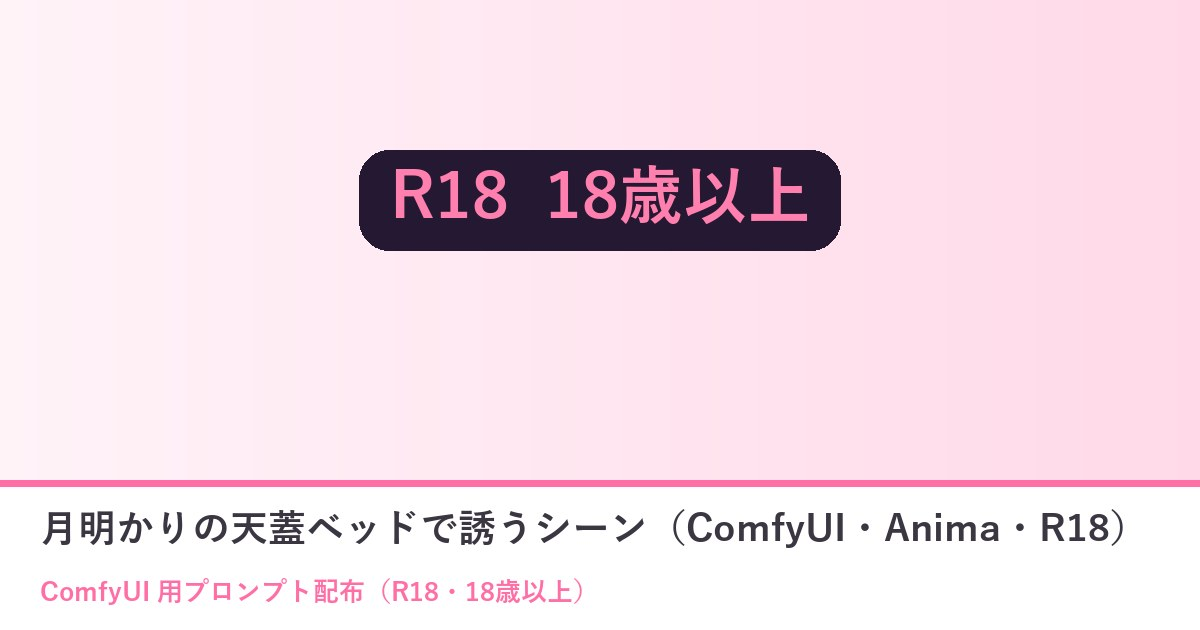
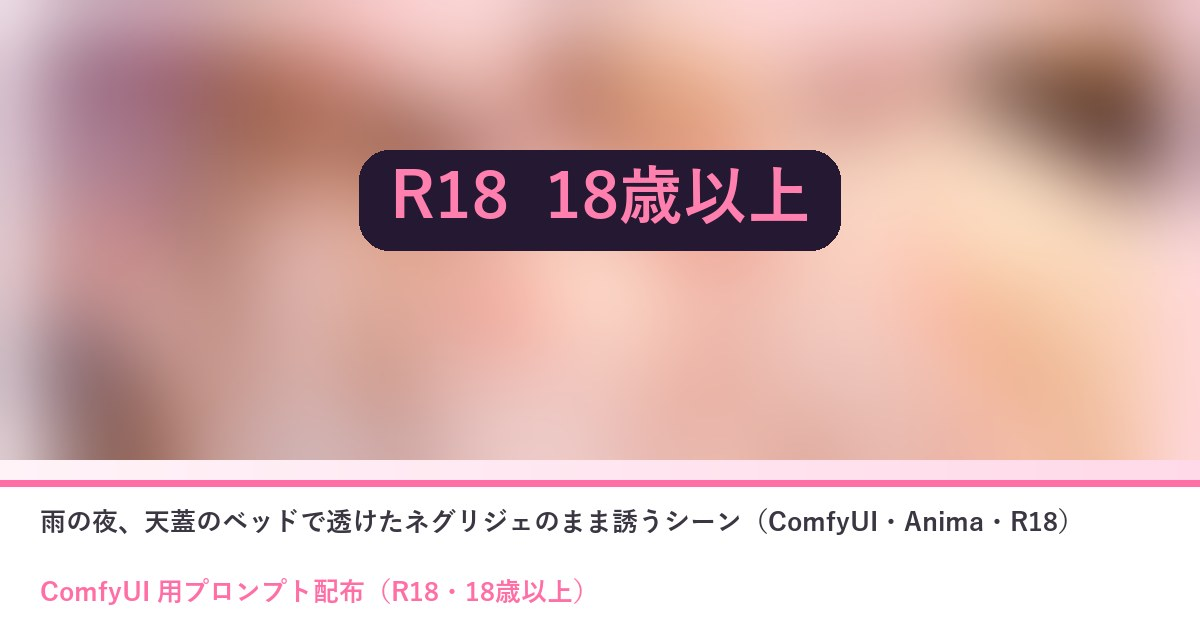
プロンプト配布 10/01 R18 を1枚・LoRA あり／なしに作り直し

diff --git a/prompts/2026-10-01-comfy-r18-ixo9srna.html b/prompts/2026-10-01-comfy-r18-ixo9srna.html
@@ -3,17 +3,17 @@
 <head>
 <meta charset="UTF-8"><meta name="robots" content="noindex, nofollow, noarchive"><meta name="referrer" content="strict-origin">
 <meta name="viewport" content="width=device-width, initial-scale=1">
-<title>月明かりの天蓋ベッドで誘うシーン（ComfyUI・Anima・R18）｜ひみつの眠り姫</title>
-<meta name="description" content="月明かりとキャンドルの灯る天蓋ベッドで、透けるネグリジェのまま、とろけた笑顔で脚をひらいて誘うシーンのプロンプトです（Level2・行為なし）。オリキャラがいなくても、そのまま貼るだけで綺麗な女の子で出ます。自分のキャラ">
-<meta property="og:title" content="月明かりの天蓋ベッドで誘うシーン（ComfyUI・Anima・R18）｜ひみつの眠り姫">
-<meta property="og:description" content="月明かりとキャンドルの灯る天蓋ベッドで、透けるネグリジェのまま、とろけた笑顔で脚をひらいて誘うシーンのプロンプトです（Level2・行為なし）。オリキャラがいなくても、そのまま貼るだけで綺麗な女の子で出ます。自分のキャラ">
+<title>雨の夜、天蓋のベッドで透けたネグリジェのまま誘うシーン（ComfyUI・Anima・R18）｜ひみつの眠り姫</title>
+<meta name="description" content="窓をたたく雨音と、ろうそくの灯り。天蓋のベッドに横たわり、透けたネグリジェをはだけたまま胸に手をあてて、こちらを見上げて誘うように微笑む……ひとりきりの甘い夜のシーンのプロンプトです（18歳以上の方だけ）。LoRA が無">
+<meta property="og:title" content="雨の夜、天蓋のベッドで透けたネグリジェのまま誘うシーン（ComfyUI・Anima・R18）｜ひみつの眠り姫">
+<meta property="og:description" content="窓をたたく雨音と、ろうそくの灯り。天蓋のベッドに横たわり、透けたネグリジェをはだけたまま胸に手をあてて、こちらを見上げて誘うように微笑む……ひとりきりの甘い夜のシーンのプロンプトです（18歳以上の方だけ）。LoRA が無">
 <meta property="og:type" content="article">
 <meta property="og:url" content="https://himitsu-nemurihime.github.io/prompts/2026-10-01-comfy-r18-ixo9srna.html">
 <meta property="og:image" content="https://himitsu-nemurihime.github.io/prompts/img/2026-10-01-comfy-r18-ixo9srna/og.jpg">
 <meta property="og:image:width" content="1200"><meta property="og:image:height" content="630">
 <meta name="twitter:card" content="summary_large_image">
-<meta name="twitter:title" content="月明かりの天蓋ベッドで誘うシーン（ComfyUI・Anima・R18）｜ひみつの眠り姫">
-<meta name="twitter:description" content="月明かりとキャンドルの灯る天蓋ベッドで、透けるネグリジェのまま、とろけた笑顔で脚をひらいて誘うシーンのプロンプトです（Level2・行為なし）。オリキャラがいなくても、そのまま貼るだけで綺麗な女の子で出ます。自分のキャラ">
+<meta name="twitter:title" content="雨の夜、天蓋のベッドで透けたネグリジェのまま誘うシーン（ComfyUI・Anima・R18）｜ひみつの眠り姫">
+<meta name="twitter:description" content="窓をたたく雨音と、ろうそくの灯り。天蓋のベッドに横たわり、透けたネグリジェをはだけたまま胸に手をあてて、こちらを見上げて誘うように微笑む……ひとりきりの甘い夜のシーンのプロンプトです（18歳以上の方だけ）。LoRA が無">
 <meta name="twitter:image" content="https://himitsu-nemurihime.github.io/prompts/img/2026-10-01-comfy-r18-ixo9srna/og.jpg">
 <meta name="theme-color" content="#FFF3F8">
 <link rel="preconnect" href="https://fonts.googleapis.com">
@@ -68,15 +68,17 @@
 @media(max-width:560px){.ps-ba{grid-template-columns:1fr}.ps-ba .arr{transform:rotate(90deg);text-align:center}.ps-vars,.ps-vars tbody,.ps-vars tr,.ps-vars th,.ps-vars td{display:block;width:auto;white-space:normal}.ps-vars tr:first-child{display:none}.ps-vars tr{border-bottom:1px solid var(--ps-line);padding:4px 0}.ps-vars th,.ps-vars td{border:0;padding:6px 12px}}
 .ps{overflow-wrap:anywhere}.ps-vars td,.ps-vars th{overflow-wrap:anywhere}.ps img{max-width:100%}
 </style>
-<!--ps-meta {"date": "2026-10-01", "title": "月明かりの天蓋ベッドで誘うシーン（ComfyUI・Anima・R18）", "kind": "comfy", "nsfw": true, "summary": "天蓋ベッドで、透けるネグリジェのまま笑顔で誘う R18 のシーン（Level2）。貼るだけで作れます。", "thumb": ""}-->
+<!--ps-meta {"date": "2026-10-01", "title": "雨の夜、天蓋のベッドで透けたネグリジェのまま誘うシーン（ComfyUI・Anima・R18）", "kind": "comfy", "nsfw": true, "summary": "雨の夜の天蓋のベッドで、透けたネグリジェのまま誘う一枚（R18）。LoRA あり／なしの2通り。", "thumb": ""}-->
 </head>
 <body>
 <div id="psgate" style="position:fixed;inset:0;z-index:50;background:rgba(36,24,50,.96);display:flex;align-items:center;justify-content:center;padding:20px"><div class="door" style="max-width:420px;background:#241832;color:#f6ecfa"><h2>ここから先は成人向けです</h2><p>18歳未満の方、苦手な方は開けずに戻ってください。</p><button class="gate-btn" id="psopen" type="button">18歳以上です</button></div></div><script>(function(){var g=document.getElementById('psgate');try{if(localStorage.getItem('hn_gate')==='1'){g.remove();return;}}catch(e){}document.getElementById('psopen').addEventListener('click',function(){try{localStorage.setItem('hn_gate','1');}catch(e){}g.remove();});})();</script><div class="sky"></div>
 <main class="wrap">
-<section class="sec"><div class="sec-head"><h2>月明かりの天蓋ベッドで誘うシーン（ComfyUI・Anima・R18）</h2><p>ひみつの眠り姫のプロンプト配布</p></div>
-<div class="ps"><p><span class="ps-badge">ComfyUI 用</span><span class="ps-badge">R18</span><span class="ps-badge">2026-10-01</span></p><p class="ps-lead">月明かりとキャンドルの灯る天蓋ベッドで、透けるネグリジェのまま、とろけた笑顔で脚をひらいて誘うシーンのプロンプトです（Level2・行為なし）。オリキャラがいなくても、そのまま貼るだけで綺麗な女の子で出ます。自分のキャラにしたいときは、1行目の見た目だけ書き換えてください。</p><nav class="ps-toc" aria-label="目次"><p>📑 目次</p><ol><li><a href="#sec1">3人のおしゃべり（夜のほう）</a></li><li><a href="#sec2">使い方（3ステップ）</a></li><li><a href="#sec3">プロンプト</a></li><li><a href="#sec4">必要なもの（ComfyUI）</a></li><li><a href="#sec5">メモ</a></li><li><a href="#sec6">配布ルール</a></li><li><a href="#sec7">バックナンバー</a></li></ol></nav><div class="ps-r18"><b>🔞 18歳未満の方は閲覧・使用できません。</b><br>非合意の表現・幼く見える人物の性的な表現には使わないでください。このページには作例の絵を置いていません（文字のプロンプトだけです）。</div><h2 id="sec1">3人のおしゃべり（夜のほう）</h2><div class="ps-chat"><div class="ic">ティ</div><div><div class="who">ティルナ</div><div class="bub">月明かりの天蓋ベッドで、ネグリジェのまま『おいで』ってしてる……！ ど、どきどきするね……！</div></div></div><div class="ps-chat r"><div class="ic">セフ</div><div><div class="who">セフィリア</div><div class="bub">透けるレースに、キャンドルの灯りと花びら……綺麗なのに、とても大胆でございますね</div></div></div><div class="ps-chat r"><div class="ic">リリ</div><div><div class="who">リリア</div><div class="bub">1行目の髪の色を変えるだけで、金髪の三つ編みにも、黒髪のショートにもなりますの。オリキャラがいなくても大丈夫ですわ</div></div></div><div class="ps-chat"><div class="ic">ティ</div><div><div class="who">ティルナ</div><div class="bub">緑の髪にピンクのメッシュ……あっ、またわたしみたいなの出てきた！</div></div></div><div class="ps-chat r"><div class="ic">リリ</div><div><div class="who">リリア</div><div class="bub">出すときはモザイクを忘れずに。夜のお楽しみは、ルールを守ってこそですわ</div></div></div><h2 id="sec2">使い方（3ステップ）</h2><ol class="ps-steps"><li>ComfyUI で Anima のモデルを読み、基本の画像生成（テキストから画像）の画面にする</li><li>下のポジティブとネガティブをワンタップでコピーして貼る（自分のキャラにするなら1行目だけ書き換える）</li><li>「推奨値」の大きさ・steps・CFG にして生成する（できれば 1.5 倍の hires fix も）</li></ol><h2 id="sec3">プロンプト</h2><div class="ps-note" style="margin-bottom:12px"><b>変えるのは1行目（色の付いた行）だけ</b><ul><li>1行目＝キャラの見た目（髪の色・髪型・目の色など）。自分のキャラの特徴に書き換えてね</li><li>オリキャラがいない人は、<b>そのまま</b>コピーして使えばOK（作例の女の子で出ます）</li><li>自分のキャラの LoRA がある人は、1行目に LoRA のトリガー語を入れてね</li><li>2行目から下（シーン）と、ネガティブプロンプトは変えずにそのまま</li><li>🚫 版権キャラの名前・版権キャラの LoRA を入れて使うのは固く禁止です（下の「配布ルール」）</li></ul></div><div class="ps-box"><button class="ps-copy" type="button" data-target="ps-prompt">📋 ワンタップでコピー</button><p style="margin:0 0 8px;font-size:.82rem;color:var(--ps-a)">ポジティブプロンプト</p><pre><mark class="ps-in" data-key="キャラの行">1girl, solo, long hair, wavy hair, silver hair, purple eyes</mark>
-masterpiece, best quality, score_7, explicit, nsfw, smile, happy, blush, looking at viewer, half-closed eyes, open mouth, heart-shaped pupils, lying, on back, on bed, spread legs, m legs, hands on own knees, pussy, pussy juice, pussy juice trail, wet, sweat, shiny skin, nipples, breasts out, see-through nightgown, white nightgown, lace-trimmed nightgown, strap slip, clothes lift, frills, ribbon, white thighhighs, from above, full body, canopy bed, sheer curtains, white sheets, rose petals, petals on bed, night, moonlight, window, candlelight, light particles, rim light, depth of field, detailed background, cinematic lighting, romantic</pre><textarea class="ps-copyarea" id="ps-prompt" readonly aria-hidden="true" tabindex="-1">1girl, solo, long hair, wavy hair, silver hair, purple eyes
-masterpiece, best quality, score_7, explicit, nsfw, smile, happy, blush, looking at viewer, half-closed eyes, open mouth, heart-shaped pupils, lying, on back, on bed, spread legs, m legs, hands on own knees, pussy, pussy juice, pussy juice trail, wet, sweat, shiny skin, nipples, breasts out, see-through nightgown, white nightgown, lace-trimmed nightgown, strap slip, clothes lift, frills, ribbon, white thighhighs, from above, full body, canopy bed, sheer curtains, white sheets, rose petals, petals on bed, night, moonlight, window, candlelight, light particles, rim light, depth of field, detailed background, cinematic lighting, romantic</textarea></div><div style="height:12px"></div><div class="ps-box"><button class="ps-copy" type="button" data-target="ps-negative">📋 ワンタップでコピー</button><p style="margin:0 0 8px;font-size:.82rem;color:var(--ps-a)">ネガティブプロンプト</p><pre>worst quality, low quality, lowres, bad anatomy, bad hands, extra fingers, missing fingers, fused fingers, blurry, jpeg artifacts, text, watermark, signature, logo, extra person, multiple girls, male, penis, sad, crying, cropped, japanese text, chinese text, korean text, kanji, hiragana, katakana, calligraphy</pre><textarea class="ps-copyarea" id="ps-negative" readonly aria-hidden="true" tabindex="-1">worst quality, low quality, lowres, bad anatomy, bad hands, extra fingers, missing fingers, fused fingers, blurry, jpeg artifacts, text, watermark, signature, logo, extra person, multiple girls, male, penis, sad, crying, cropped, japanese text, chinese text, korean text, kanji, hiragana, katakana, calligraphy</textarea></div><h2 id="sec4">必要なもの（ComfyUI）</h2><div class="ps-note">🧩 <b>カスタムノードは使っていません</b>。LoRA も要りません。ComfyUI の基本の画像生成（テキストから画像）に、ポジティブ・ネガティブを貼って、下の推奨値にするだけです。</div><table class="ps-vars" style="margin-top:12px"><tr><th>モデル</th><th>ファイル</th><th>置き場</th></tr><tr><td>Anima 系のモデル</td><td>PrismPalette_ANIMA_v1 など好きな Anima</td><td><code>models/diffusion_models</code></td></tr><tr><td>テキストエンコーダ（Anima 用）</td><td>qwen_3_06b_base.safetensors</td><td><code>models/text_encoders</code></td></tr><tr><td>VAE（Anima 用）</td><td>qwen_image_vae.safetensors</td><td><code>models/vae</code></td></tr></table><h2>推奨値</h2><table class="ps-vars"><tr><th>大きさ</th><td colspan="2">864×1536（縦長＝上から見下ろす寝姿）</td></tr><tr><th>steps</th><td colspan="2">30</td></tr><tr><th>CFG</th><td colspan="2">4.5</td></tr><tr><th>sampler</th><td colspan="2">er_sde</td></tr><tr><th>scheduler</th><td colspan="2">beta</td></tr><tr><th>hires fix（任意）</th><td colspan="2">1.5 倍に拡大して denoise 0.4・同じ steps と CFG（作例はこれ）</td></tr><tr><th>LoRA</th><td colspan="2">要りません（自分のキャラの LoRA があれば使ってOK）</td></tr></table><h2 id="sec5">メモ</h2><ul class="ps-rules"><li>1行目には見た目だけを書いてください（髪の色・長さ・髪型・髪飾り・目の色）。服・ポーズ・場所は2行目からに入っています。</li><li>手はひざに置く形にしてあるので、くずれにくくなっています。くずれたら seed を変えて何枚か焼いてください。</li><li>ネガティブの male・penis は消さないでください（ひとりのシーンです）。</li><li>SNS に出すときは、各サービスのルールに従って必要な処理（モザイクなど）をしてください。</li></ul><h2 id="sec6">配布ルール</h2><ul class="ps-rules"><li>⭕ プロンプトの改変は自由です。</li><li>⭕ 生成した画像は SNS に投稿して大丈夫です。</li><li>❌ プロンプト文そのものの転載・再配布・販売はしないでください。</li><li>❌ 自作のプロンプトだと名乗ることはやめてください。</li><li>❌ このページの作例画像の無断転載はしないでください。</li><li class="ps-rights">🚫 <b>アニメ・漫画・ゲームなどの版権キャラクター（著作権・商標のあるキャラ）、他の人のキャラクターやイラスト、実在の人物の写真を添付画像にして使うことは固く禁止します。</b>版権キャラの名前や、版権キャラの LoRA を入れて使うことも禁止です。</li><li>✅ 添付してよいのは、<b>自分で作ったキャラクター・自分が権利を持つ画像</b>（または権利者から使ってよいと言われた画像）だけです。</li><li>⚠ 生成した画像の使い方（投稿・公開など）は、使った人の責任でお願いします。権利の問題が起きても、配布者は責任を負えません。</li><li>💌 使ったら <b>#眠り姫NSFWプロンプト</b> を付けて見せてくれたら、とても嬉しいです（任意です）。</li></ul><h2 id="sec7">バックナンバー</h2><div class="ps-note">📚 これまでの配布は <a href="index.html"><b>バックナンバー</b></a> にまとめてあります（作例の絵と内容が一覧で見られます）。お友だちに教えるときは、バックナンバーのページの URL を送ればOKです。</div></div>
+<section class="sec"><div class="sec-head"><h2>雨の夜、天蓋のベッドで透けたネグリジェのまま誘うシーン（ComfyUI・Anima・R18）</h2><p>ひみつの眠り姫のプロンプト配布</p></div>
+<div class="ps"><p><span class="ps-badge">ComfyUI 用</span><span class="ps-badge">R18</span><span class="ps-badge">2026-10-01</span></p><p class="ps-lead">窓をたたく雨音と、ろうそくの灯り。天蓋のベッドに横たわり、透けたネグリジェをはだけたまま胸に手をあてて、こちらを見上げて誘うように微笑む……ひとりきりの甘い夜のシーンのプロンプトです（18歳以上の方だけ）。LoRA が無くても、A をそのまま貼るだけで綺麗な女の子で出ます。自分のキャラの LoRA を持っている人は B をどうぞ。</p><nav class="ps-toc" aria-label="目次"><p>📑 目次</p><ol><li><a href="#sec1">3人のひそひそ話（R18）</a></li><li><a href="#sec2">使い方（3ステップ）</a></li><li><a href="#sec3">プロンプト</a></li><li><a href="#sec4">必要なもの（ComfyUI）</a></li><li><a href="#sec5">メモ</a></li><li><a href="#sec6">配布ルール</a></li></ol></nav><div class="ps-r18"><b>🔞 18歳未満の方は閲覧・使用できません。</b><br>非合意の表現・幼く見える人物の性的な表現には使わないでください。このページには作例の絵を置いていません（文字のプロンプトだけです）。</div><h2 id="sec1">3人のひそひそ話（R18）</h2><div class="ps-chat"><div class="ic">ティ</div><div><div class="who">ティルナ</div><div class="bub">ねえねえ、雨の夜に天蓋のベッドで、透け透けのネグリジェのまま見上げてくるの……ずるくない？</div></div></div><div class="ps-chat r"><div class="ic">セフ</div><div><div class="who">セフィリア</div><div class="bub">まあ……お恥ずかしい。胸もとのリボンはほどけて、白いガーターまで見えてしまっております</div></div></div><div class="ps-chat r"><div class="ic">リリ</div><div><div class="who">リリア</div><div class="bub">LoRA が無い方は A をそのまま貼るだけですわ。1行目の髪の色を変えれば、ご自分の子にも近づけられますの</div></div></div><div class="ps-chat"><div class="ic">ティ</div><div><div class="who">ティルナ</div><div class="bub">LoRA がある人は B だよ！ 1行目の your_lora_trigger を自分のトリガー語にするだけ！</div></div></div><div class="ps-chat r"><div class="ic">セフ</div><div><div class="who">セフィリア</div><div class="bub">ろうそくの灯りと雨の音……汗ばんだ肌が、しっとり光っておりますね</div></div></div><div class="ps-chat r"><div class="ic">リリ</div><div><div class="who">リリア</div><div class="bub">雨の夜のお楽しみに、どうぞ。18歳以上の方だけの秘密ですわ</div></div></div><h2 id="sec2">使い方（3ステップ）</h2><ol class="ps-steps"><li>ComfyUI で Anima のモデルを読み、基本の画像生成（テキストから画像）の画面にする</li><li>下の A（LoRA なし）か B（LoRA あり）のポジティブと、ネガティブをワンタップでコピーして貼る</li><li>「推奨値」の大きさ・steps・CFG にして生成する（できれば 1.5 倍の hires fix も）</li></ol><h2 id="sec3">プロンプト</h2><div class="ps-note" style="margin-bottom:12px"><b>変えるのは1行目（色の付いた行）だけ</b><ul><li>使うプロンプトは2通り＝<b>A. LoRA を持っていない人</b>／<b>B. 自分のキャラの LoRA を持っている人</b>。どちらも丸ごとコピーして貼るだけ</li><li>A は<b>そのまま</b>でも綺麗な女の子で出ます。自分のキャラにするなら1行目の髪の色・髪型・目の色を書き換えるだけ</li><li>B は1行目の <code>your_lora_trigger</code> を自分の LoRA のトリガー語に置きかえるだけ（LoRA の強さは下の表）</li><li>2行目から下（シーン）と、ネガティブプロンプトは変えずにそのまま</li><li>🚫 版権キャラの名前・版権キャラの LoRA を入れて使うのは固く禁止です（下の「配布ルール」）</li></ul></div><h3 style="margin:14px 0 8px">A. LoRA を持っていない人（そのままでもOK）</h3><div class="ps-box"><button class="ps-copy" type="button" data-target="ps-prompt">📋 ワンタップでコピー</button><p style="margin:0 0 8px;font-size:.82rem;color:var(--ps-a)">ポジティブプロンプト</p><pre><mark class="ps-in" data-key="キャラの行">1girl, solo, long hair, blonde hair, braid, blue eyes</mark>
+masterpiece, best quality, score_7, explicit, cowboy shot, from above, looking at viewer, seductive smile, half-closed eyes, blush, lying, on back, on bed, hand on own chest, arm up, hair spread out, canopy bed, bedroom, curtains, night, moonlight, candlelight, light particles, white nightgown, see-through, lace, frilled sleeves, off-shoulder, nightgown pull, nipples, pussy, no panties, thighhighs, garter straps, hair ribbon, pearl earrings, bracelet, pillow, rose petals, petals, white thighhighs, rain, window, warm colors, floral print, lace-trimmed skirt, frills, choker, flower basket, sweat, wet skin, shiny skin, pussy juice, excessive pussy juice, depth of field</pre><textarea class="ps-copyarea" id="ps-prompt" readonly aria-hidden="true" tabindex="-1">1girl, solo, long hair, blonde hair, braid, blue eyes
+masterpiece, best quality, score_7, explicit, cowboy shot, from above, looking at viewer, seductive smile, half-closed eyes, blush, lying, on back, on bed, hand on own chest, arm up, hair spread out, canopy bed, bedroom, curtains, night, moonlight, candlelight, light particles, white nightgown, see-through, lace, frilled sleeves, off-shoulder, nightgown pull, nipples, pussy, no panties, thighhighs, garter straps, hair ribbon, pearl earrings, bracelet, pillow, rose petals, petals, white thighhighs, rain, window, warm colors, floral print, lace-trimmed skirt, frills, choker, flower basket, sweat, wet skin, shiny skin, pussy juice, excessive pussy juice, depth of field</textarea></div><h3 style="margin:18px 0 8px">B. 自分のキャラの LoRA を持っている人</h3><div class="ps-box"><button class="ps-copy" type="button" data-target="ps-prompt-lora">📋 ワンタップでコピー</button><p style="margin:0 0 8px;font-size:.82rem;color:var(--ps-a)">ポジティブプロンプト（LoRA 用）</p><pre><mark class="ps-in" data-key="キャラの行">1girl, solo, your_lora_trigger</mark>
+masterpiece, best quality, score_7, explicit, cowboy shot, from above, looking at viewer, seductive smile, half-closed eyes, blush, lying, on back, on bed, hand on own chest, arm up, hair spread out, canopy bed, bedroom, curtains, night, moonlight, candlelight, light particles, white nightgown, see-through, lace, frilled sleeves, off-shoulder, nightgown pull, nipples, pussy, no panties, thighhighs, garter straps, hair ribbon, pearl earrings, bracelet, pillow, rose petals, petals, white thighhighs, rain, window, warm colors, floral print, lace-trimmed skirt, frills, choker, flower basket, sweat, wet skin, shiny skin, pussy juice, excessive pussy juice, depth of field</pre><textarea class="ps-copyarea" id="ps-prompt-lora" readonly aria-hidden="true" tabindex="-1">1girl, solo, your_lora_trigger
+masterpiece, best quality, score_7, explicit, cowboy shot, from above, looking at viewer, seductive smile, half-closed eyes, blush, lying, on back, on bed, hand on own chest, arm up, hair spread out, canopy bed, bedroom, curtains, night, moonlight, candlelight, light particles, white nightgown, see-through, lace, frilled sleeves, off-shoulder, nightgown pull, nipples, pussy, no panties, thighhighs, garter straps, hair ribbon, pearl earrings, bracelet, pillow, rose petals, petals, white thighhighs, rain, window, warm colors, floral print, lace-trimmed skirt, frills, choker, flower basket, sweat, wet skin, shiny skin, pussy juice, excessive pussy juice, depth of field</textarea></div><table class="ps-vars" style="margin-top:10px"><tr><th>LoRA のつなぎ方</th><td colspan="2">Load Diffusion Model（Anima）のうしろに LoraLoaderModelOnly を1つ足す（CLIP にはつながない）</td></tr><tr><th>LoRA の強さ（strength_model）</th><td colspan="2">0.8〜0.9（作例は 0.85）</td></tr><tr><th>1行目</th><td colspan="2">your_lora_trigger を自分の LoRA のトリガー語に置きかえる（髪や目の色は LoRA が覚えているので書かなくてOK）</td></tr></table><p style="font-size:.85rem;margin:10px 0 0">ネガティブプロンプトは A・B 共通（下）です。</p><div style="height:12px"></div><div class="ps-box"><button class="ps-copy" type="button" data-target="ps-negative">📋 ワンタップでコピー</button><p style="margin:0 0 8px;font-size:.82rem;color:var(--ps-a)">ネガティブプロンプト</p><pre>worst quality, low quality, lowres, bad anatomy, bad hands, extra fingers, missing fingers, fused fingers, blurry, jpeg artifacts, text, watermark, signature, logo, extra person, multiple girls, cropped, out of frame, japanese text, chinese text, korean text, kanji, hiragana, katakana, calligraphy</pre><textarea class="ps-copyarea" id="ps-negative" readonly aria-hidden="true" tabindex="-1">worst quality, low quality, lowres, bad anatomy, bad hands, extra fingers, missing fingers, fused fingers, blurry, jpeg artifacts, text, watermark, signature, logo, extra person, multiple girls, cropped, out of frame, japanese text, chinese text, korean text, kanji, hiragana, katakana, calligraphy</textarea></div><h2 id="sec4">必要なもの（ComfyUI）</h2><div class="ps-note">🧩 <b>カスタムノードは使っていません</b>。LoRA が無くても大丈夫（A のプロンプト）。ComfyUI の基本の画像生成（テキストから画像）に、ポジティブ・ネガティブを貼って、下の推奨値にするだけです。LoRA を使う人は「LoraLoaderModelOnly」を1つ足すだけ（B のプロンプト）。</div><table class="ps-vars" style="margin-top:12px"><tr><th>モデル</th><th>ファイル</th><th>置き場</th></tr><tr><td>Anima 系のモデル</td><td>PrismPalette_ANIMA_v1 など好きな Anima</td><td><code>models/diffusion_models</code></td></tr><tr><td>テキストエンコーダ（Anima 用）</td><td>qwen_3_06b_base.safetensors</td><td><code>models/text_encoders</code></td></tr><tr><td>VAE（Anima 用）</td><td>qwen_image_vae.safetensors</td><td><code>models/vae</code></td></tr></table><h2>推奨値</h2><table class="ps-vars"><tr><th>大きさ</th><td colspan="2">864×1536（縦長＝顔から脚まで一枚に入る）</td></tr><tr><th>steps</th><td colspan="2">30</td></tr><tr><th>CFG</th><td colspan="2">4.5</td></tr><tr><th>sampler</th><td colspan="2">er_sde</td></tr><tr><th>scheduler</th><td colspan="2">beta</td></tr><tr><th>hires fix（任意）</th><td colspan="2">1.5 倍に拡大して denoise 0.4・同じ steps と CFG（試し焼きはこれ）</td></tr><tr><th>LoRA</th><td colspan="2">無くてOK（A のプロンプト）。自分のキャラの LoRA があれば B のプロンプトで</td></tr></table><h2 id="sec5">メモ</h2><ul class="ps-rules"><li>A（LoRA なし）は1行目の髪の色・長さ・髪型・目の色を書き換えるだけで、自分のキャラに近づけられます。そのままでも綺麗な女の子で出ます（試し焼きで確かめてあります）。</li><li>B（LoRA あり）は1行目の your_lora_trigger を自分の LoRA のトリガー語にするだけ。髪や目の色は LoRA が覚えているので書かなくて大丈夫です。</li><li>ひとりの場面です。手は胸の上と顔のそばに置く形なので、くずれにくくなっています。くずれたら seed を変えて何枚か焼いてください。</li><li>SNS に投稿するときは、そのサービスの決まりどおりモザイクやラベルを付けてください（作例はモザイク済みのものだけ見せています）。</li></ul><h2 id="sec6">配布ルール</h2><ul class="ps-rules"><li>⭕ プロンプトの改変は自由です。</li><li>⭕ 生成した画像は SNS に投稿して大丈夫です。</li><li>❌ プロンプト文そのものの転載・再配布・販売はしないでください。</li><li>❌ 自作のプロンプトだと名乗ることはやめてください。</li><li>❌ このページの作例画像の無断転載はしないでください。</li><li class="ps-rights">🚫 <b>アニメ・漫画・ゲームなどの版権キャラクター（著作権・商標のあるキャラ）、他の人のキャラクターやイラスト、実在の人物の写真を添付画像にして使うことは固く禁止します。</b>版権キャラの名前や、版権キャラの LoRA を入れて使うことも禁止です。</li><li>✅ 添付してよいのは、<b>自分で作ったキャラクター・自分が権利を持つ画像</b>（または権利者から使ってよいと言われた画像）だけです。</li><li>⚠ 生成した画像の使い方（投稿・公開など）は、使った人の責任でお願いします。権利の問題が起きても、配布者は責任を負えません。</li><li>💌 使ったら <b>#眠り姫NSFWプロンプト</b> を付けて見せてくれたら、とても嬉しいです（任意です）。</li></ul></div>
 <p style="text-align:center;margin:34px 0 0"><a class="gate-btn ghost" href="../index.html" style="color:var(--ink-dim);border-color:var(--line)">部屋に戻る</a></p>
 </section>
 </main>
